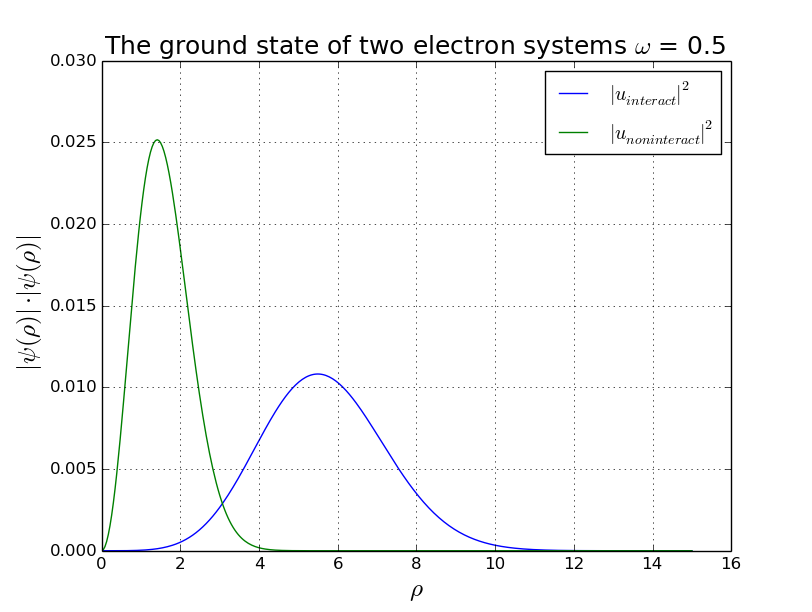
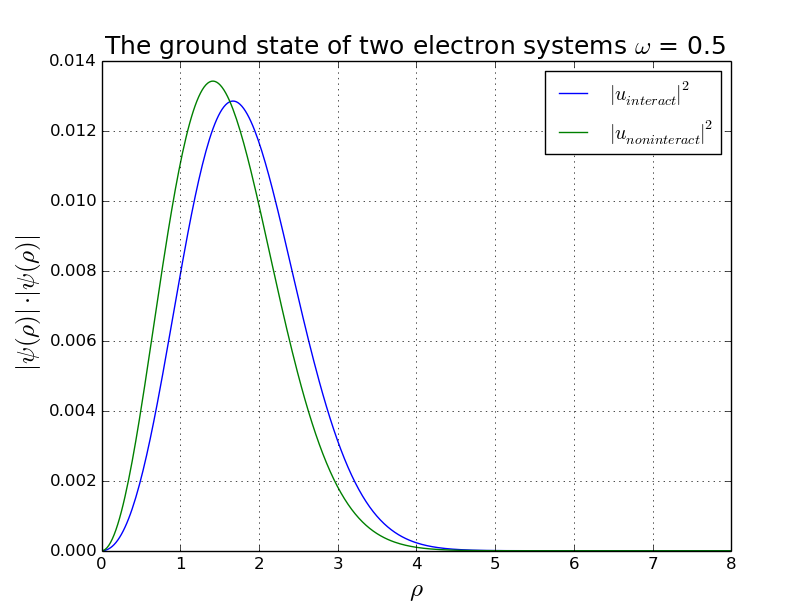
Fixed plots

diff --git a/Project_2/main.cpp b/Project_2/main.cpp
@@ -19,8 +19,8 @@ int main(){
     //Lager rho-arrayen
     double* rho = new double[N+1];
     rho[0] = 0.0;
-    rho[N] = 3.0; //Approx infinity
-    double omega = 5.0;
+    rho[N] = 8.0; //Approx infinity
+    double omega = 0.5;
 
     double h = (rho[N] - rho[0])/N;
 
